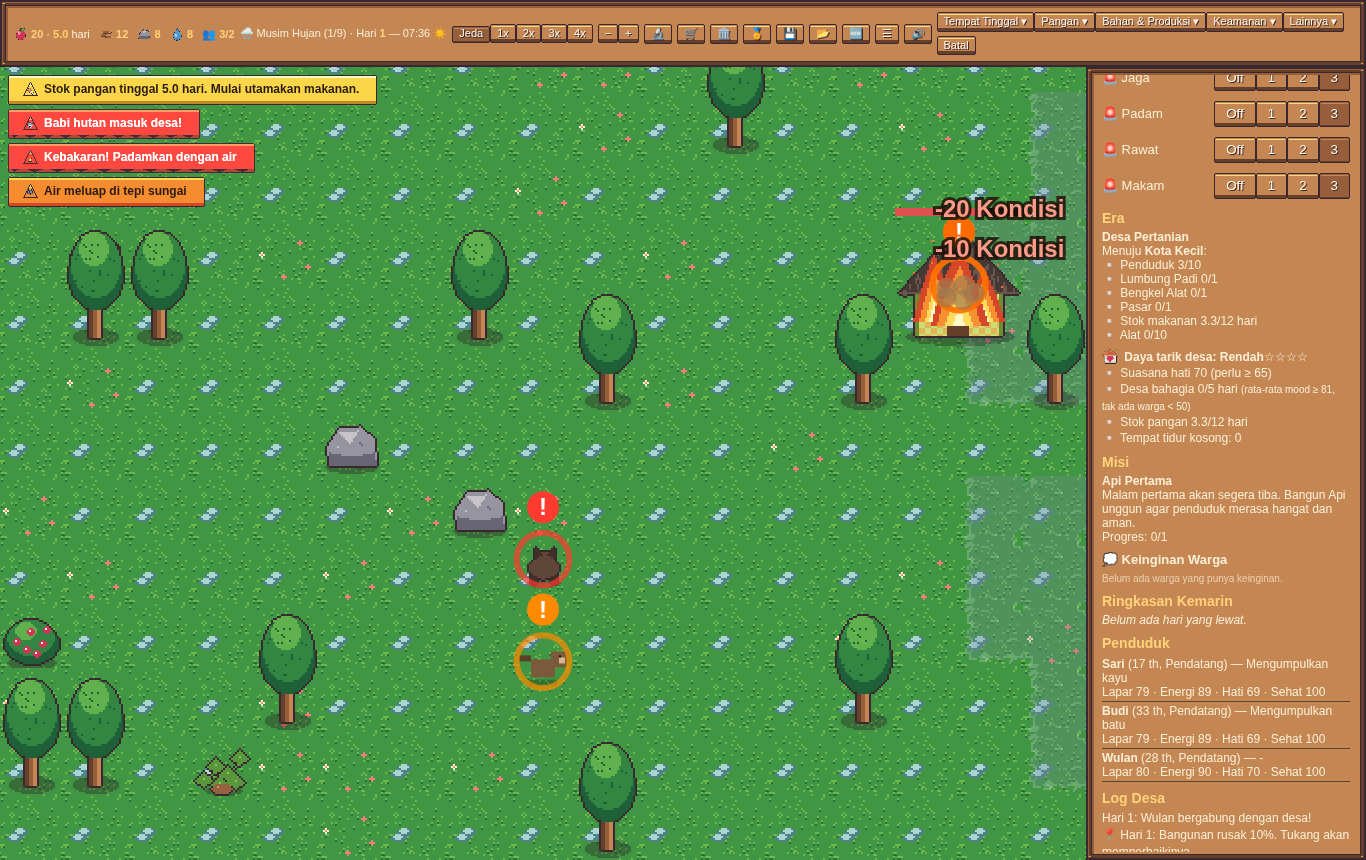
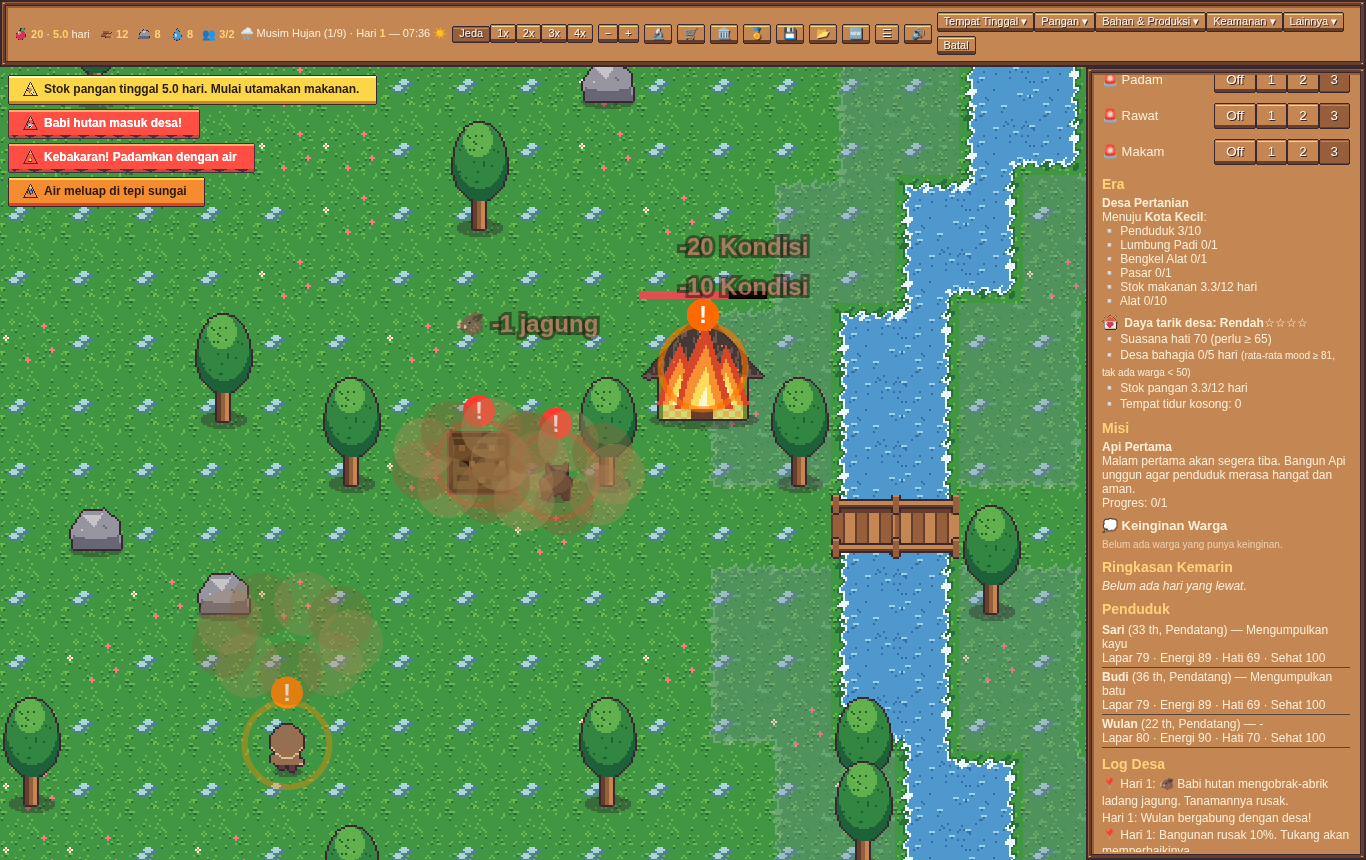
v15: event lokal muncul di awal (gotong royong hari 6+, pasaran Dusun, bobotAwal), efek babi lebih jelas (debu, tanah teraduk, teks)

diff --git a/game.js b/game.js
@@ -685,7 +685,7 @@ let fx = []; // efek sesaat (debu), tidak disimpan
 function mapEvent(k, x, y, sec, ref) { S.mapEvents = (S.mapEvents || []).filter(e => S.t < e.until && !(ref != null && e.ref === ref && e.k === k));
   const e = { k, x, y, t0: S.t, until: S.t + (sec ?? EV_SEC()), ref }; S.mapEvents.push(e); if (S.mapEvents.length > 12) S.mapEvents.shift(); S.lastEventAt = { k, x, y }; return e; }
 function logAt(msg, x, y) { log(msg); const P = S.logPos = S.logPos || {}; P[S.log[0]] = [Math.round(x * 10) / 10, Math.round(y * 10) / 10]; for (const k of Object.keys(P)) if (!S.log.includes(k)) delete P[k]; }
-function dustAt(x, y) { fx.push({ k: 'debu', x, y, t0: performance.now() }); if (fx.length > 20) fx.shift(); }
+function dustAt(x, y, big) { fx.push({ k: 'debu', x, y, t0: performance.now(), life: big ? 2600 : 1600, big: !!big }); if (fx.length > 20) fx.shift(); } // v15: debu lebih besar & lama
 // penanda aktif: kejadian tercatat + yang dinamis (hewan menyerang, bangunan terbakar, banjir)
 function activeMarkers() { const out = (S.mapEvents || []).filter(e => S.t < e.until).map(e => ({ k: e.k, x: e.x, y: e.y }));
   if (S.wolf && S.wolf.phase === 'serang') for (const o of S.wolves || []) if (o.mode !== 'pergi') out.push({ k: 'serang', x: o.x, y: o.y });
@@ -697,9 +697,9 @@ function drawMarkers() { const t = performance.now() / 1000;
   for (const m of activeMarkers()) { const cx = m.x * T + 16, cy = m.y * T + 16, p = (Math.sin(t * 6) + 1) / 2, col = EV_COL[m.k] || '#ff3b30';
     ctx.globalAlpha = 0.35 + 0.4 * (1 - p); ctx.strokeStyle = col; ctx.lineWidth = 3; ctx.beginPath(); ctx.arc(cx, cy, 12 + p * 10, 0, 7); ctx.stroke(); ctx.globalAlpha = 1;
     ctx.fillStyle = col; ctx.beginPath(); ctx.arc(cx, cy - 26, 8, 0, 7); ctx.fill(); ctx.fillStyle = '#fff'; ctx.font = 'bold 12px sans-serif'; ctx.textAlign = 'center'; ctx.fillText('!', cx, cy - 22); ctx.textAlign = 'left'; }
-  const now = performance.now(); fx = fx.filter(f => now - f.t0 < 1200);
-  for (const f of fx) { const a = (now - f.t0) / 1200; ctx.globalAlpha = 0.6 * (1 - a); ctx.fillStyle = '#a07a50';
-    for (let i = 0; i < 5; i++) { const ang = i * 1.26, r = 4 + a * 14; ctx.beginPath(); ctx.arc(f.x * T + 16 + Math.cos(ang) * r, f.y * T + 22 + Math.sin(ang) * r * 0.5 - a * 6, 4 + a * 4, 0, 7); ctx.fill(); } }
+  const now = performance.now(); fx = fx.filter(f => now - f.t0 < (f.life || 1600));
+  for (const f of fx) { const a = (now - f.t0) / (f.life || 1600), n = f.big ? 9 : 6, s = f.big ? 1.5 : 1; ctx.globalAlpha = 0.85 * (1 - a * a);
+    for (let i = 0; i < n; i++) { const ang = i * 6.283 / n + a, r = (5 + a * 20) * s; ctx.fillStyle = i % 2 ? '#8a6238' : '#b08a5a'; ctx.beginPath(); ctx.arc(f.x * T + 16 + Math.cos(ang) * r, f.y * T + 22 + Math.sin(ang) * r * 0.55 - a * 10, (5 + a * 7) * s, 0, 7); ctx.fill(); } }
   ctx.globalAlpha = 1; }
 // posisi untuk spanduk peringatan (klik -> kamera ke sana)
 function warnPos(k) { const M = activeMarkers(), f = m => m && { x: m.x, y: m.y };
@@ -944,9 +944,9 @@ function eventAllowed(e) { const r = (C.EVENT_RULES || {})[e.id] || {}, year = y
   if (r.cooldownHari && S.day - ((S.eventLastDay || {})[e.id] ?? -999) < r.cooldownHari) return false;
   if (r.grup) { const G = S.eventGroup || {}; if (r.grupMaksPerTahun && (G[r.grup + '@' + year] || 0) >= r.grupMaksPerTahun) return false; if (r.grupCooldown && S.day - (G[r.grup + '@last'] ?? -999) < r.grupCooldown) return false;
     if (r.grup === 'angin' && S.windDay != null && S.day - S.windDay < (r.grupCooldown || 3)) return false; } // v14: satu slot event angin (badai + angin_mareng), tidak menumpuk dengan angin harian
-  if (r.era && eraIndex(r.era) > (S.era | 0)) return false; if (r.butuh && !r.butuh.every(t => done(t).length)) return false; if (r.kecuali && S[r.kecuali]) return false; // v13: syarat dari teks event (bangunan/era/flag)
+  if (r.era && eraIndex(r.era) > (S.era | 0)) return false; if (r.minHari && S.day < r.minHari) return false; if (r.butuh && !r.butuh.every(t => done(t).length)) return false; if (r.kecuali && S[r.kecuali]) return false; // v13: syarat dari teks event (bangunan/era/flag)
   return true; }
-const eventWeight = e => { const r = (C.EVENT_RULES || {})[e.id]; return (r && r.bobot != null ? r.bobot : e.bobot ?? 1) * (e.id === 'panen_raya' ? FX().panenRayaWeightMult || 1 : 1); };
+const eventWeight = e => { const r = (C.EVENT_RULES || {})[e.id]; return (r && r.bobot != null ? r.bobot : e.bobot ?? 1) * (r && r.bobotAwal && S.day <= (C.EVENT_EARLY_DAYS || 30) ? r.bobotAwal : 1) /* v15: event lokal ramah masa awal lebih sering dipilih hari 1-30 (peluang harian tetap) */ * (e.id === 'panen_raya' ? FX().panenRayaWeightMult || 1 : 1); };
 const allEvents = () => !TEXT ? [] : [...(TEXT.event_acak || []), ...(TEXT.event_era_lanjut || []), ...(TEXT.event_musiman || []), ...(TEXT.__lokalEv ? TEXT.event_lokal || [] : [])].map(e => e.id === 'pendatang' ? pendatangEvent(e) : e); // v13: event_lokal (Nusantara; tema lain hanya bila overlay-nya punya event_lokal) masuk kolam undian yang sama
 // P1: Pendatang Mengetuk = 2 pilihan: Terima (pilihan sambut lama) / Tolak halus (mood kecil, tanpa biaya lain). Teks: event_ui.pendatang.* (fallback Indonesia)
 const pendatangEvent = e => { const s = e.pilihan.find(p => addsPop(p.efek)) || e.pilihan[0];
@@ -1242,7 +1242,7 @@ function wreckField(o, b) { const W = TH(); o.field = null;
   if (S.buildings.some(t => torchLit(t) && dist(center(t), b) <= W.torchSafeRadius) && Math.random() >= W.torchHitMult) { o.plots = (o.plots || 0) + 1; log('🔥 ' + TT('diusir', {}, 'Cahaya obor membuat babi hutan ragu.')); return; }
   if (C.SCARECROW && scarecrowNear(b) && Math.random() >= C.SCARECROW.boarFieldMult) { o.plots = (o.plots || 0) + 1; log('🌾 ' + TT('diusir_orang_orangan', { hewan: C.NIGHT_THREAT === 'wolf' ? 'serigala' : 'babi hutan' }, 'Orang-orangan sawah bergoyang ditiup angin. Seekor {hewan} ragu dan mundur ke hutan.')); return; }
   const cn = cropName(b); o.plots = (o.plots || 0) + 1; b.stage = 'kosong'; b.grow = 0; b.wrecked = S.day; b.wreckedT = S.t; S.fieldsWrecked = (S.fieldsWrecked || 0) + 1; sfx('event');
-  dustAt(b.x, b.y); floatText(`-1 ${cn}`, b.x, b.y - 0.5, '#ff9a8a'); mapEvent('ladang', b.x, b.y, EV_SEC(), b.id);
+  dustAt(b.x, b.y, true); if (o && o.x != null && dist(o, b) > 0.5) dustAt(o.x, o.y, true); floatText(`🐗 -1 ${cn}`, b.x, b.y - 0.8, '#ff9a8a'); mapEvent('ladang', b.x, b.y, EV_SEC(), b.id);
   logAt('🐗 ' + TT('rusak_ladang', { tanaman: cn }, `Babi hutan merusak ladang ${cn}.`), b.x, b.y); }
 function updateWolf(o, dt) { const W = TH();
   if (o.mode === 'serang') { o.t += dt; if (o.t >= 0.5 && !o.bit) { o.bit = true; biteVillager(o, vById(o.target)); } if (o.t >= 0.9) o.mode = 'pergi'; return; }
@@ -1279,7 +1279,7 @@ function biteVillager(o, v) { const W = TH(); if (!v || !S.villagers.includes(v)
   if (Math.random() >= hit) { log('🔥 ' + TLX('log_ancaman.diusir', 'diusir', { nama: v.name }, 'Cahaya obor membuat hewan liar ragu dan berbalik ke hutan.')); return; }
   const dmg = Math.round(rnd(W.damage[0], W.damage[1]) * traitMult(v, 'threatDmgMult')); v.health = Math.max(isY2() ? 0.5 : 1, (v.health ?? 100) - dmg); v.mood = Math.max(0, v.mood - W.moodHit); v.lastHurt = 'serangan'; v.injured = S.day;
   S.wolfBites = (S.wolfBites || 0) + 1; sfx('event');
-  dustAt(v.x, v.y); floatText(`-${dmg} ${TX('peta_kejadian.kesehatan', {}, 'Kesehatan')}`, v.x, v.y - 0.5, '#ff9a8a'); mapEvent('serang', v.x, v.y, EV_SEC(), 'v' + v.id);
+  dustAt(v.x, v.y, true); floatText(`-${dmg} ${TX('peta_kejadian.kesehatan', {}, 'Kesehatan')}`, v.x, v.y - 0.5, '#ff9a8a'); mapEvent('serang', v.x, v.y, EV_SEC(), 'v' + v.id);
   logAt(threatIcon() + TLX('log_ancaman.serangan_serigala', 'serang', { nama: v.name, jumlah: dmg }, `Hewan liar menyerang ${v.name}! Kesehatannya turun ${dmg}.`), v.x, v.y);
   if (Math.random() < W.traumaChance * traitMult(v, 'traumaMult')) { v.traumaUntil = S.day + W.traumaDays; log(TX('log_ancaman.trauma', { nama: v.name }, `${v.name} masih teringat malam serangan itu.`)); }
   const guarded = near('menara_jaga', v, W.killSafeRadius) || near('pagar', v, W.killSafeRadius);
@@ -2590,7 +2590,7 @@ function drawBuilding(b, d) {
     else hasImg = sprite(key, b.x, b.y, 1, 1, fr);
     if (!hasImg) { ctx.fillStyle = ['#8a5a32', '#8a7a32', '#7a9a3a', '#5aa03a', '#e0c040'][fr] || '#8a5a32'; ctx.fillRect(b.x * T + 2, b.y * T + 2, T - 4, T - 4); }
     if (b.done && (fr === 2 || fr === 3) && canGrow(b)) sprite('kilau', b.x, b.y, 1, 1, animFrame(ASSETS.kilau, ASSETS.kilau.fps));
-    if (b.wreckedT != null && S.t - b.wreckedT < C.DAY_LENGTH_SEC) { const a = 1 - (S.t - b.wreckedT) / C.DAY_LENGTH_SEC; ctx.globalAlpha = 0.6 * a; ctx.fillStyle = '#6b4a24'; ctx.fillRect(b.x * T + 1, b.y * T + 1, T - 2, T - 2); ctx.fillStyle = '#3e2a14'; for (let i = 0; i < 4; i++) ctx.fillRect(b.x * T + 4 + i * 7, b.y * T + 8 + (i % 2) * 9, 5, 2); ctx.globalAlpha = b.done ? 1 : 0.45; } // v11: ladang dirusak hewan -> tanah teraduk cokelat, memudar dalam sehari
+    if (b.wreckedT != null && S.t - b.wreckedT < 2 * C.DAY_LENGTH_SEC) { const a = 1 - (S.t - b.wreckedT) / (2 * C.DAY_LENGTH_SEC); ctx.globalAlpha = Math.min(1, 0.35 + 0.6 * a); ctx.fillStyle = '#5e3f1c'; ctx.fillRect(b.x * T + 1, b.y * T + 1, T - 2, T - 2); ctx.fillStyle = '#2e1e0c'; for (let i = 0; i < 9; i++) ctx.fillRect(b.x * T + 3 + (i % 3) * 10 + (i * 5) % 4, b.y * T + 4 + Math.floor(i / 3) * 9 + (i % 2) * 2, 6, 3); ctx.fillStyle = '#8a6238'; for (let i = 0; i < 5; i++) ctx.fillRect(b.x * T + 6 + i * 5, b.y * T + 7 + (i % 3) * 8, 3, 3); ctx.strokeStyle = '#2e1e0c'; ctx.lineWidth = 2; ctx.strokeRect(b.x * T + 2, b.y * T + 2, T - 4, T - 4); ctx.globalAlpha = b.done ? 1 : 0.45; } // v11: ladang dirusak hewan -> tanah teraduk cokelat, memudar dalam sehari
     if (b.keong > 0 && ASSETS.keong_sawah) sprite('keong_sawah', b.x, b.y, 1, 1, frameAt(ASSETS.keong_sawah, 2)); // v9: keong di sawah berair
   } else if (b.done && (b.hp ?? 100) <= 0 && b.type !== 'makam') { // hangus -> puing
     hasImg = (ASSETS[b.type + '_hangus'] && ASSETS[b.type + '_hangus'].image) ? sprite(b.type + '_hangus', b.x, b.y, d.w, d.h) : sprite(d.w >= 2 ? 'puing_besar' : 'puing_kecil', b.x, b.y, d.w, d.h);

diff --git a/tests/v15.test.js b/tests/v15.test.js
@@ -1,0 +1,34 @@
+// v15: event lokal muncul di masa awal (hari 1-30) permainan biasa (Nusantara), beberapa seed; frekuensi total tetap (kolam sama).
+const { chromium } = require('playwright');
+const LOKAL = ['ular_di_sawah', 'hujan_pertama', 'monyet_pencuri', 'dbd_pancaroba', 'ispa_asap', 'kebakaran_ilalang', 'angin_mareng', 'tanam_serentak', 'gotong_royong', 'kenduri_panen', 'ronda_malam', 'hari_pasar', 'tamu_desa_sebelah'];
+(async () => {
+  const b = await chromium.launch(); const errs = [], fails = [], out = [];
+  const ok = (name, cond, info) => { if (!cond) fails.push(name + ' ' + JSON.stringify(info === undefined ? '' : info)); };
+  for (const seed of [1010, 7, 42, 2024, 99]) { const p = await b.newPage(); p.on('pageerror', e => errs.push(String(e)));
+    await p.goto(process.env.GAME_URL || 'http://localhost:8095/'); await p.evaluate(() => localStorage.clear()); await p.reload();
+    await p.waitForFunction(() => window.DESA_READY && window.DESA && DESA.state, null, { timeout: 20000 });
+    const r = await p.evaluate(([seed, LOKAL]) => { let a = seed >>> 0; Math.random = () => { a = (a + 0x6D2B79F5) >>> 0; let t = a; t = Math.imul(t ^ t >>> 15, t | 1); t ^= t + Math.imul(t ^ t >>> 7, t | 61); return ((t ^ t >>> 14) >>> 0) / 4294967296; };
+      const S = DESA.state, C = CONFIG, D = DESA; const plan = ['apiunggun', 'gubuk', 'ladang', 'ladang', 'gudang', 'sumur', 'gubuk', 'ladang'];
+      const tryBuild = () => { const t = plan[0]; if (!t || !D.canAfford(C.BUILDINGS[t].cost) || S.buildings.some(b => !b.done)) return;
+        for (let rr = 1; rr < 12; rr++) for (let dy = -rr; dy <= rr; dy++) for (let dx = -rr; dx <= rr; dx++) { const x = C.CAMP.x + dx * 2, y = C.CAMP.y + dy * 2; if (t !== 'ladang' && Math.abs(dx) + Math.abs(dy) < 2) continue;
+          if (D.validSpot(t, x, y)) { for (const [k, n] of Object.entries(C.BUILDINGS[t].cost)) S.res[k] -= n; D.addBuilding(t, x, y, false); plan.shift(); return; } } };
+      const seen = []; let last = 0, events = 0;
+      while (S.day <= 30) { D.step(0.1); if (S.day !== last) { last = S.day; tryBuild(); }
+        if (S.event) { if (S.event[0] !== '@') { events++; if (LOKAL.includes(S.event)) seen.push(S.event + '@' + S.day); } const e = [...document.querySelectorAll('[data-ev]')].find(x => !x.disabled); e && e.click(); } }
+      return { seen, events, era: S.era }; }, [seed, LOKAL]);
+    out.push({ seed, ...r }); await p.close(); }
+  { const p = await b.newPage(); p.on('pageerror', e => errs.push(String(e))); await p.goto(process.env.GAME_URL || 'http://localhost:8095/'); await p.evaluate(() => localStorage.clear()); await p.reload();
+    await p.waitForFunction(() => window.DESA_READY && window.DESA && DESA.state, null, { timeout: 20000 });
+    const f = await p.evaluate(LOKAL => { const S = DESA.state, C = CONFIG, E = DESA.v13, R = C.EVENT_RULES, missing = LOKAL.filter(id => !R[id]);
+      const run = boost => { const sv = {}; if (!boost) for (const id of LOKAL) if (R[id] && R[id].bobotAwal) { sv[id] = R[id].bobotAwal; delete R[id].bobotAwal; }
+        let a = 3 >>> 0; const rnd = Math.random; Math.random = () => { a = (a + 0x6D2B79F5) >>> 0; let t = a; t = Math.imul(t ^ t >>> 15, t | 1); t ^= t + Math.imul(t ^ t >>> 7, t | 61); return ((t ^ t >>> 14) >>> 0) / 4294967296; };
+        let n = 0; for (let rep = 0; rep < 20; rep++) { S.eventLastDay = {}; S.eventYearCount = {}; S.eventGroup = {}; for (let d = 1; d <= 30; d++) { S.day = d; S.event = null; S.hjPending = false; E.maybeEvent(); if (S.event && S.event[0] !== '@') n++; S.event = null; S.eventName = null; } }
+        Math.random = rnd; Object.assign(R, Object.fromEntries(Object.entries(sv).map(([k, v]) => [k, Object.assign(R[k], { bobotAwal: v })]))); document.getElementById('modal').style.display = 'none'; return n; };
+      return { missing, off: run(false), on: run(true) }; }, LOKAL);
+    ok('aturan event lokal lengkap', !f.missing.length, f); ok('frekuensi hari 1-30 tidak naik (dorongan bobot awal)', f.on <= f.off * 1.05, f); await p.close(); }
+  await b.close();
+  console.log(JSON.stringify(out));
+  const withLokal = out.filter(o => o.seen.length >= 1).length;
+  ok('event lokal muncul <= hari 30 (>= 4 dari 5 seed)', withLokal >= 4, out);
+  if (errs.length) fails.push('console: ' + errs.slice(0, 3).join(' | '));
+  if (fails.length) { console.log('GAGAL:\n' + fails.join('\n')); process.exit(1); } console.log('v15 OK'); })();

diff --git a/tema.js b/tema.js
@@ -116,11 +116,11 @@ window.THEMES = {
     EVENT_SEASON_ALIAS: { semi: 'hujan', panas: 'kemarau', gugur: 'mareng', dingin: 'kemarau' }, // = TEKS meta.alias_id_v140.musim
     EVENT_RULES: { panen_raya: { musim: ['mareng'] }, kekeringan: { musim: ['kemarau'] }, badai: { musim: ['mareng', 'labuh'], bobot: 0.5, grup: 'angin', grupMaksPerTahun: 2, grupCooldown: 10 }, // v14: badai + angin_mareng = satu slot event angin (bobot total 1 = badai lama), kerusakan lewat windStrike
       // v13 event_lokal: bobot 0.5 (kolam undian sama, peluang harian tetap); syarat sesuai teks: butuh bangunan / era / flag
-      ular_di_sawah: { bobot: 0.5, butuh: ['ladang'] }, hujan_pertama: { bobot: 0.5, maksPerTahun: 1, kecuali: 'firstRainDone', setel: 'firstRainDone' },
-      monyet_pencuri: { bobot: 0.5, butuh: ['gudang'], cooldownHari: 14 }, dbd_pancaroba: { bobot: 0.5, maksPerTahun: 1 }, ispa_asap: { bobot: 0.5, maksPerTahun: 1 },
-      kebakaran_ilalang: { bobot: 0.5, butuh: ['gubuk'], maksPerTahun: 1 }, angin_mareng: { bobot: 0.5, grup: 'angin', grupMaksPerTahun: 2, grupCooldown: 10 }, tanam_serentak: { bobot: 0.5, butuh: ['ladang'], maksPerTahun: 1 },
-      gotong_royong: { bobot: 0.5, era: 'dusun', cooldownHari: 20 }, kenduri_panen: { bobot: 0.5, butuh: ['ladang'], maksPerTahun: 1 }, ronda_malam: { bobot: 0.5, butuh: ['menara_jaga'], cooldownHari: 20 },
-      hari_pasar: { bobot: 0.5, era: 'desa_pertanian', cooldownHari: 14 }, tamu_desa_sebelah: { bobot: 0.5, cooldownHari: 20 } },
+      ular_di_sawah: { bobot: 0.5, butuh: ['ladang'], bobotAwal: 4 }, hujan_pertama: { bobot: 0.5, maksPerTahun: 1, kecuali: 'firstRainDone', setel: 'firstRainDone' },
+      monyet_pencuri: { bobot: 0.5, butuh: ['gudang'], cooldownHari: 14 }, dbd_pancaroba: { bobot: 0.5, maksPerTahun: 1, bobotAwal: 2 }, ispa_asap: { bobot: 0.5, maksPerTahun: 1 },
+      kebakaran_ilalang: { bobot: 0.5, butuh: ['gubuk'], maksPerTahun: 1 }, angin_mareng: { bobot: 0.5, grup: 'angin', grupMaksPerTahun: 2, grupCooldown: 10 }, tanam_serentak: { bobot: 0.5, butuh: ['ladang'], maksPerTahun: 1, bobotAwal: 2 },
+      gotong_royong: { bobot: 0.5, minHari: 6, cooldownHari: 20, bobotAwal: 5 }, kenduri_panen: { bobot: 0.5, butuh: ['ladang'], maksPerTahun: 1, bobotAwal: 3 }, ronda_malam: { bobot: 0.5, butuh: ['menara_jaga'], cooldownHari: 20 }, // v15: gotong royong tak lagi menunggu era Dusun (hari 6+)
+      hari_pasar: { bobot: 0.5, era: 'dusun', cooldownHari: 14 }, tamu_desa_sebelah: { bobot: 0.5, minHari: 5, cooldownHari: 20, bobotAwal: 5 } }, // v15: pasaran mulai Dusun (dulu Desa Pertanian); ronda tetap butuh Pos Ronda (teks)
     MARKET_MUSIM: { kemarau: { jual: { makanan: 1.25, gandum: 1.25 }, beli: { makanan: 1.4, gandum: 1.4 } }, hujan: { jual: { kayu: 0.9 } }, mareng: { jual: { makanan: 0.85, gandum: 0.9 } } },
     // teks bawaan (bahasa Indonesia) per kait; [pathTEKS atau null, cadangan]. Asisten Dokumen mengisi path saat TEKS Nusantara siap.
     TXT: {

diff --git a/tests/v11.test.js b/tests/v11.test.js
@@ -56,7 +56,7 @@ const SHOT = process.env.SHOTS !== '0';
       r.wolfMarker = V.activeMarkers().some(m => m.k === 'serang');
       // ladang dirusak: penanda + posisi log + teks melayang
       const rnd = Math.random; Math.random = () => 0.99; V.wreckField(o, f); Math.random = rnd;
-      r.fieldMarker = V.activeMarkers().some(m => m.k === 'ladang' && m.x === f.x && m.y === f.y); r.logPos = !!(S.logPos && S.logPos[S.log[0]]); r.float = DESA.p1.textNotes().some(t => t.startsWith('-1'));
+      r.fieldMarker = V.activeMarkers().some(m => m.k === 'ladang' && m.x === f.x && m.y === f.y); r.logPos = !!(S.logPos && S.logPos[S.log[0]]); r.float = DESA.p1.textNotes().some(t => t.includes('-1 '));
       // pencuri pangan berjalan ke sasaran
       V.spawnRaider(3, (CONFIG.MONKEY && CONFIG.MONKEY.hewan) || 'monyet'); const rd = S.raiders[S.raiders.length - 1], e0 = Math.hypot(rd.x - rd.goal.x, rd.y - rd.goal.y); V.updateRaiders(0.5); r.raidMove = Math.hypot(rd.x - rd.goal.x, rd.y - rd.goal.y) < e0;
       r.raidMarker = V.activeMarkers().some(m => m.k === 'curi'); r.raidKind = rd.kind; r.raidSprite = !!(ASSETS[rd.kind] && ASSETS[rd.kind].image);
@@ -81,7 +81,7 @@ const SHOT = process.env.SHOTS !== '0';
       const n0 = S.villagers.length; DESA.v9c.applyEffects({ penduduk: 1 }, 'tes'); r.pendatang = S.villagers.length > n0 && V.activeMarkers().some(m => m.k === 'pendatang');
       return r; });
     ok(T + ' banjir/api/rusak punya posisi & penanda', ot.flood && ot.floodMarker && ot.fire && ot.rusak && ot.rusak2 && ot.pendatang, ot);
-    if (!tema && SHOT) { await p.evaluate(() => { const S = DESA.state, o = S.wolves[0]; if (o) { o.mode = 'jalan'; DESA.p1.view(Math.round(o.x), Math.round(o.y), 2); } }); await p.waitForTimeout(300); await p.screenshot({ path: '../docs/screenshots/v11-babi.png' }); }
+    if (!tema && SHOT) { await p.evaluate(() => { const S = DESA.state, o = S.wolves[0], f = (DESA.addBuilding('ladang', 27, 32, true), S.buildings[S.buildings.length - 1]); if (o) { o.mode = 'jalan'; if (f) { o.x = f.x + 1.2; o.y = f.y + 0.2; S.buildings.forEach(b => { if (b.type === 'obor') b.fuel = 0; }); DESA.v11.wreckField(o, f); } DESA.p1.view(Math.round(o.x), Math.round(o.y), 2); } }); await p.waitForTimeout(1900); await p.screenshot({ path: '../docs/screenshots/v11-babi.png' }); } // v15: babi baru merusak ladang -> debu, tanah cokelat, teks melayang
     await p.close(); }
   await b.close();
   if (errs.length) fails.push('console: ' + errs.slice(0, 3).join(' | '));
